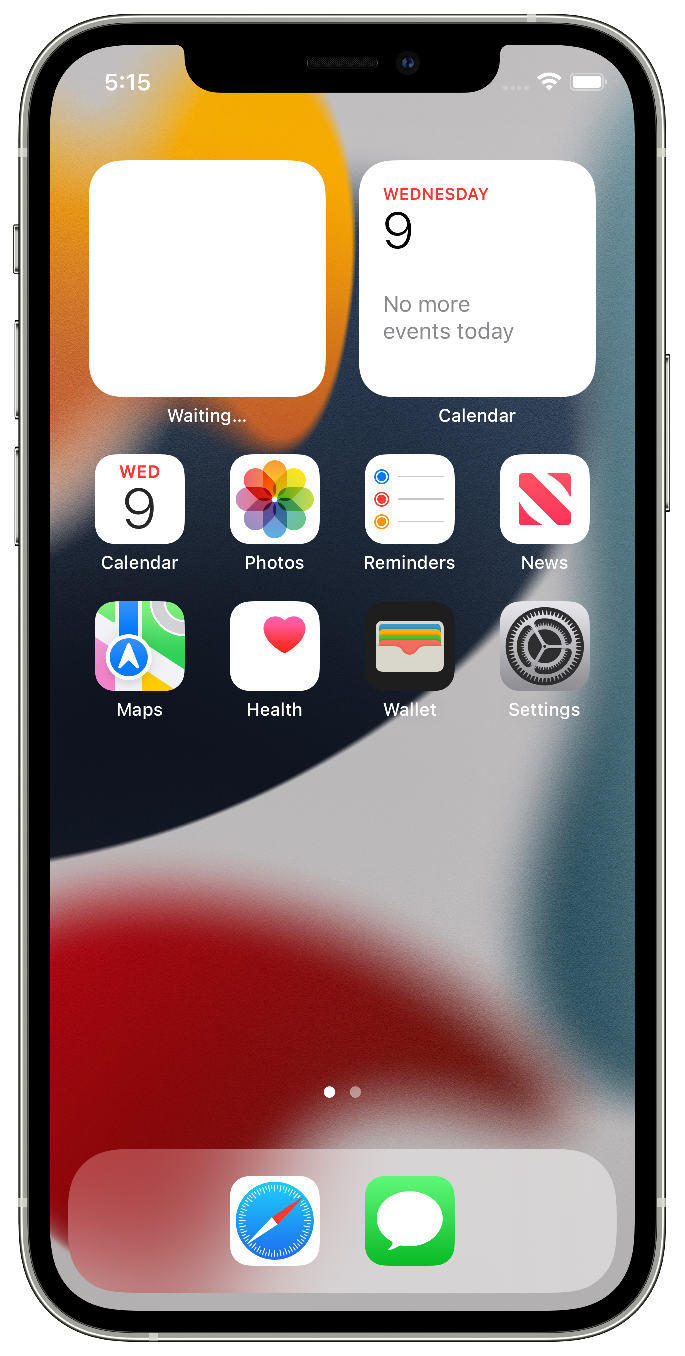
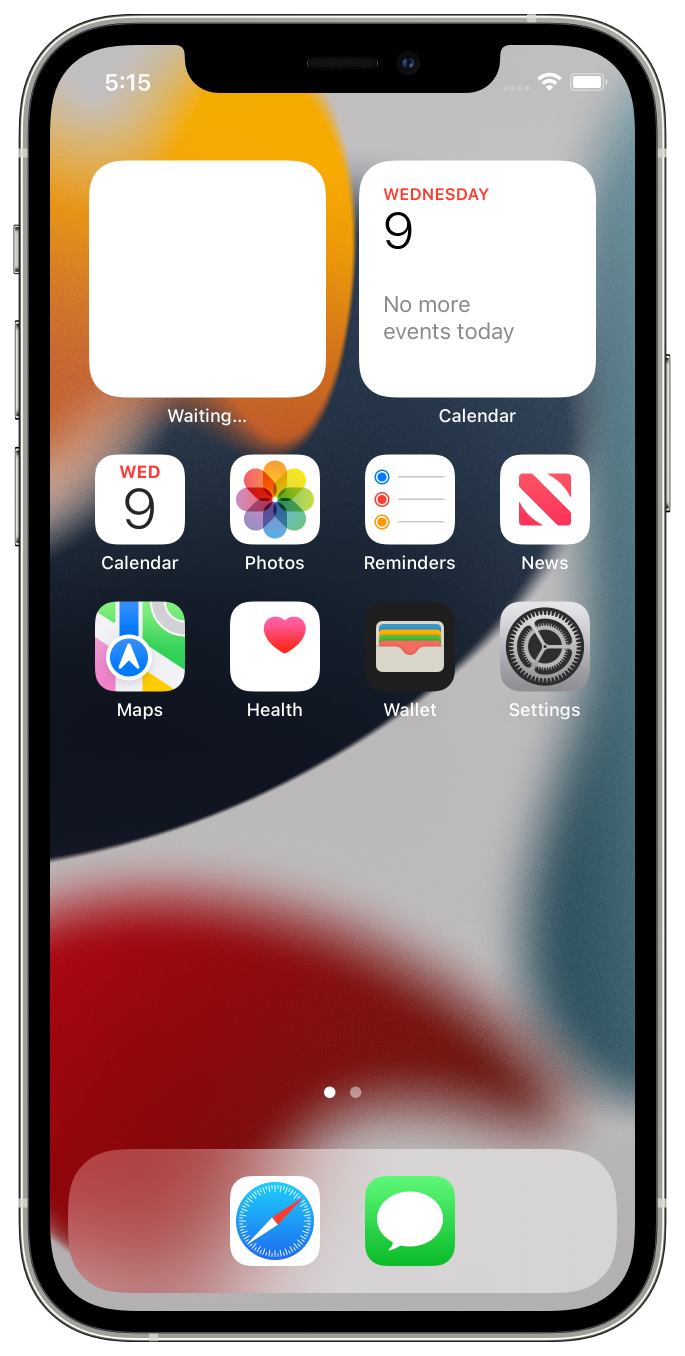
:necktie: switch to ApproxBiLinear scaler

diff --git a/internal/utils/scaler.go b/internal/utils/scaler.go
@@ -8,7 +8,7 @@ import (
 func EncodeWithScale(dim Dimension, encode func(rgba *image.RGBA) error) func(img *image.RGBA) error {
 	scaledDstImage := image.NewRGBA(image.Rect(0, 0, dim.Width, dim.Height))
 	return func(img *image.RGBA) error {
-		draw.NearestNeighbor.Scale(scaledDstImage, scaledDstImage.Bounds(), img, img.Bounds(), draw.Over, nil)
+		draw.ApproxBiLinear.Scale(scaledDstImage, scaledDstImage.Bounds(), img, img.Bounds(), draw.Over, nil)
 		err := encode(scaledDstImage)
 		if err != nil {
 			return err
